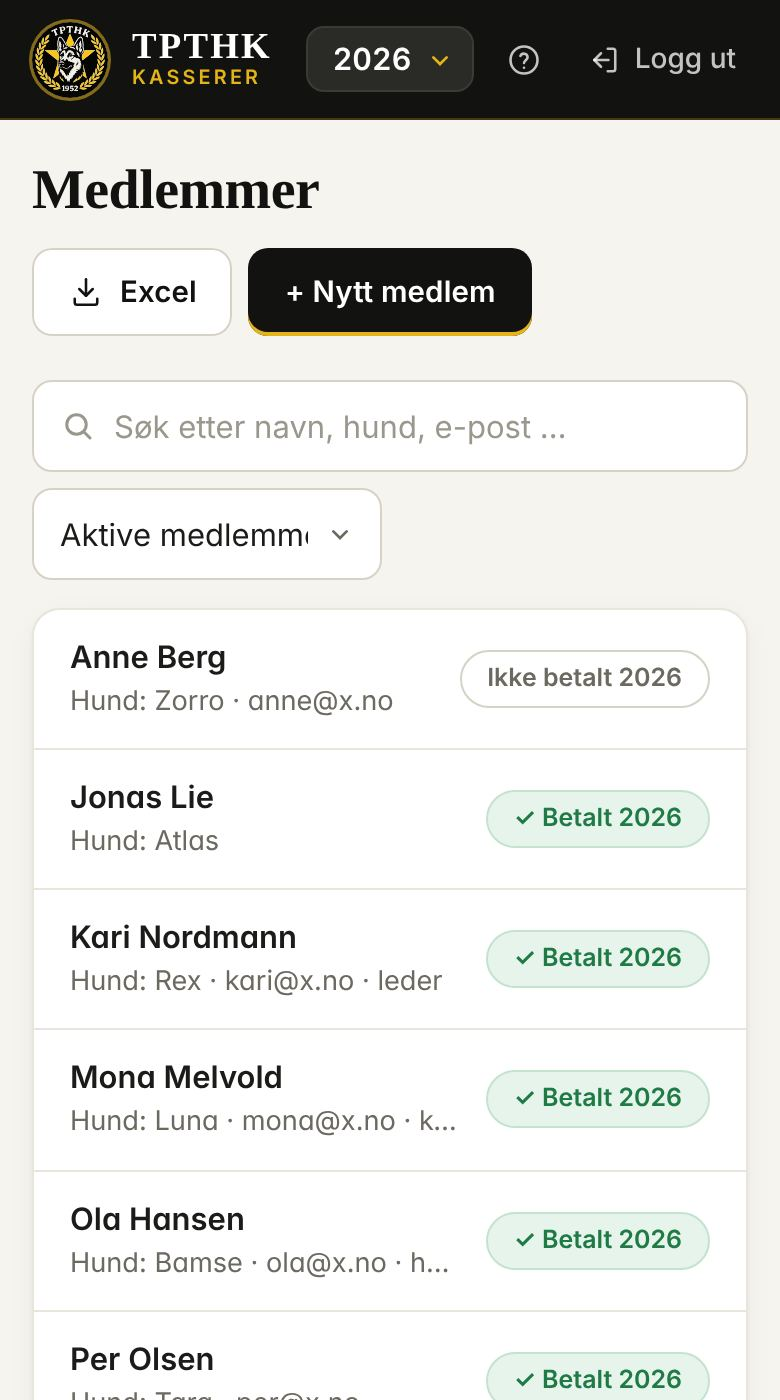
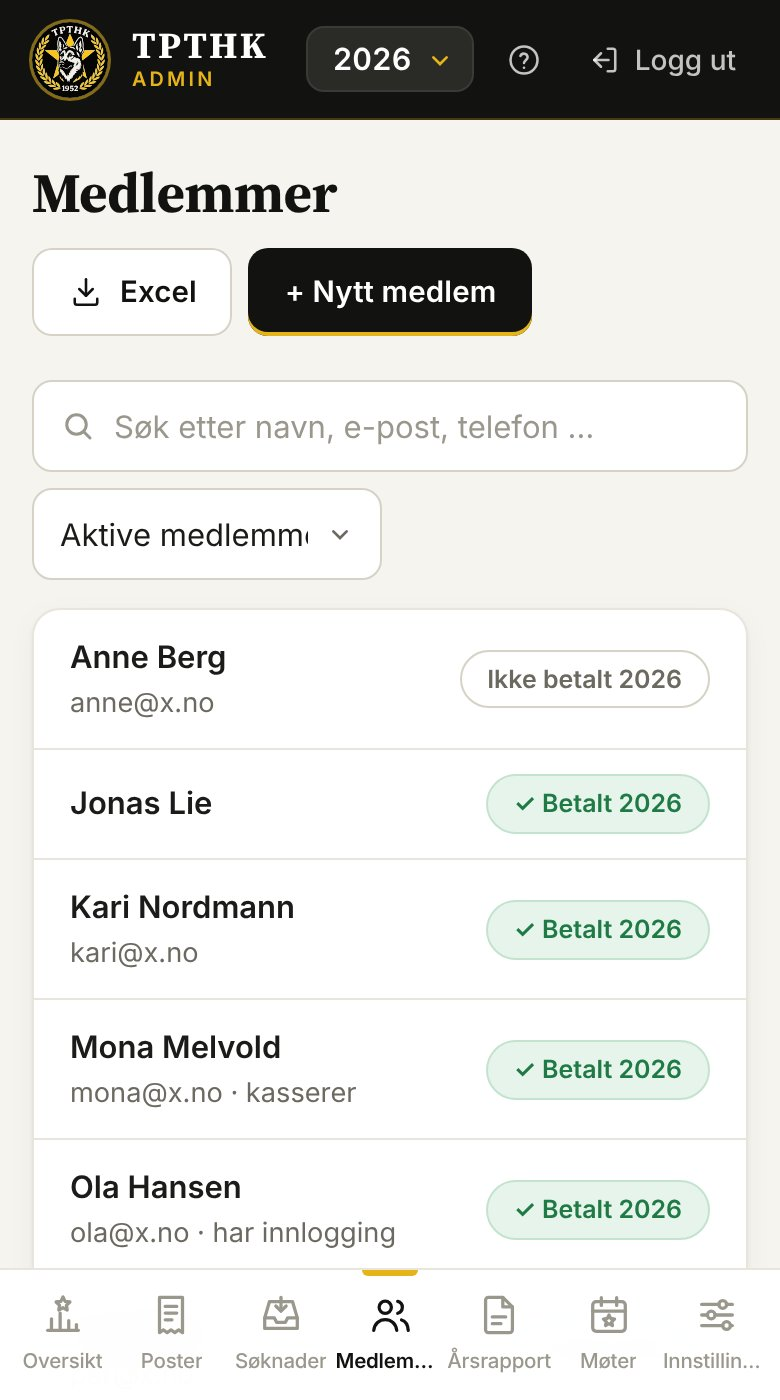
Fjern hund fra medlemmene
Feltet var ikke relevant for klubben. Det er tatt bort fra skjemaet,
listen, søket, Excel-eksporten og hjelpesiden.

Claude-Session: https://claude.ai/code/session_01UShCtGLeeAvhamCDJU8Wet

diff --git a/public/js/views/medlemmer.js b/public/js/views/medlemmer.js
@@ -21,7 +21,7 @@ export function liste(main, S) {
   const synlige = sortert.filter((m) =>
     (filter.vis === "alle" || (filter.vis === "aktive" && m.aktiv !== false)
       || (filter.vis === "ubetalt" && m.aktiv !== false && !m.kontingent?.[aar]?.betalt))
-    && (!sok || `${m.navn} ${m.epost} ${m.hund} ${m.telefon}`.toLowerCase().includes(sok)));
+    && (!sok || `${m.navn} ${m.epost} ${m.telefon}`.toLowerCase().includes(sok)));
 
   main.innerHTML = html`
     <div class="sidetopp">
@@ -46,7 +46,7 @@ export function liste(main, S) {
       </section>`) : ""}
 
     <div class="filterlinje">
-      <input type="search" id="sok" placeholder="Søk etter navn, hund, e-post …" value="${filter.sok}">
+      <input type="search" id="sok" placeholder="Søk etter navn, e-post, telefon …" value="${filter.sok}">
       <select id="vis">
         <option value="aktive" ${filter.vis === "aktive" ? "selected" : ""}>Aktive medlemmer</option>
         <option value="ubetalt" ${filter.vis === "ubetalt" ? "selected" : ""}>Ikke betalt ${aar}</option>
@@ -61,7 +61,7 @@ export function liste(main, S) {
         <li class="${m.aktiv === false ? "utmeldt" : ""}">
           <a href="#/medlem/${m.id}" class="medlem-info">
             <strong>${m.navn}</strong>
-            <span class="hint">${[m.hund && `Hund: ${m.hund}`, m.epost].filter(Boolean).join(" · ")}${t ? ` · ${[t.admin ? "administrator" : t.rolle === "kasserer" ? "kasserer" : "", ...vervFor(S, t.id).map((v) => v.toLowerCase())].filter(Boolean).join(", ") || "har innlogging"}` : ""}${m.aktiv === false ? " · utmeldt" : ""}</span>
+            <span class="hint">${[m.epost, t && ([t.admin ? "administrator" : t.rolle === "kasserer" ? "kasserer" : "", ...vervFor(S, t.id).map((v) => v.toLowerCase())].filter(Boolean).join(", ") || "har innlogging"), m.aktiv === false && "utmeldt"].filter(Boolean).join(" · ")}</span>
           </a>
           <button class="kontingent ${betalt ? "betalt" : ""}" data-kontingent="${m.id}" title="Kontingent ${aar}">
             ${betalt ? `✓ Betalt ${aar}` : `Ikke betalt ${aar}`}
@@ -150,10 +150,10 @@ async function angre(m, aar) {
 
 function eksporter(S, medlemmer) {
   const aar = S.aar;
-  const rader = [["Navn", "E-post", "Telefon", "Hund", "Aktiv", `Kontingent ${aar}`, "Betalt dato", "Beløp", "Merknad"]];
+  const rader = [["Navn", "E-post", "Telefon", "Aktiv", `Kontingent ${aar}`, "Betalt dato", "Beløp", "Merknad"]];
   for (const m of medlemmer) {
     const k = m.kontingent?.[aar];
-    rader.push([m.navn, m.epost, m.telefon, m.hund, m.aktiv === false ? "Nei" : "Ja",
+    rader.push([m.navn, m.epost, m.telefon, m.aktiv === false ? "Nei" : "Ja",
       k?.betalt ? "Betalt" : "Ikke betalt", k ? datoTekst(k.dato) : "", k ? (k.belop / 100).toFixed(2).replace(".", ",") : "", m.merknad]);
   }
   lastNedCsv(`${S.innst.kortnavn || "TPTHK"}-medlemmer-${aar}.csv`, rader);
@@ -179,7 +179,6 @@ export function skjema(main, S, id) {
         <label>E-post<input name="epost" type="email" value="${m.epost || ""}" autocomplete="off"></label>
         <label>Telefon<input name="telefon" type="tel" value="${m.telefon || ""}" autocomplete="off"></label>
       </div>
-      <label>Hund(er)<input name="hund" value="${m.hund || ""}" placeholder="F.eks. Quatro (malinois)"></label>
       <label>Merknad<textarea name="merknad" rows="2">${m.merknad || ""}</textarea></label>
       <label class="avkryss"><input type="checkbox" name="aktiv" ${m.aktiv !== false ? "checked" : ""}> Aktivt medlem</label>
       <label class="avkryss"><input type="checkbox" name="tilgang" ${tilgang ? "checked" : ""} ${erMeg ? "disabled" : ""}>
@@ -210,7 +209,7 @@ export function skjema(main, S, id) {
     }
     await medKnapp(e.submitter, async () => {
       const medlemId = await lagreMedlem(ny ? null : m.id, {
-        navn: v.navn.trim(), epost, telefon: v.telefon.trim(), hund: v.hund.trim(), merknad: v.merknad.trim(), aktiv: Boolean(v.aktiv),
+        navn: v.navn.trim(), epost, telefon: v.telefon.trim(), merknad: v.merknad.trim(), aktiv: Boolean(v.aktiv),
       });
       // Flytt eller fjern tilgang når e-posten endres eller haken fjernes.
       if (tilgang && tilgang.rolle !== "kasserer" && (gammelEpost !== epost || !vilHaTilgang)) await slettBruker(gammelEpost);

diff --git a/public/js/views/hjelp.js b/public/js/views/hjelp.js
@@ -96,7 +96,7 @@ const DELER = [
           <li>Når du har overført pengene i nettbanken, fyll inn dato, beløp og kategori under «Betalt ut? Før det i regnskapet» og trykk «Marker som utbetalt».
             Da blir det en utgift i regnskapet med kvitteringene vedlagt.</li>
         </ol>`, ["behandle-soknad"]],
-      ["Medlemmer og kontingent", `<p>Under <a href="#/medlemmer">Medlemmer</a> legger du inn medlemmene med navn, e-post og hund.
+      ["Medlemmer og kontingent", `<p>Under <a href="#/medlemmer">Medlemmer</a> legger du inn medlemmene med navn, e-post og telefon.
         Trykk på et medlem for å registrere betalt kontingent. Da føres den også i regnskapet. Har dere fått ett samlet beløp (f.eks. fra Vipps),
         kan du fjerne haken og føre totalen som én post selv. «Excel» laster ned medlemslisten.</p>`, ["medlemmer"]],
       ["Gi nye brukere tilgang", `<p>Når noen ber om tilgang, vises de øverst under Medlemmer. Trykk «Gi tilgang» eller «Avvis».

diff --git a/public/js/firebase.js b/public/js/firebase.js
@@ -202,7 +202,7 @@ export async function godkjennForesporsel(f, eksisterendeMedlemId) {
   if (!medlemId) {
     const ref = doc(collection(db, "medlemmer"));
     medlemId = ref.id;
-    batch.set(ref, { navn: f.navn, epost: f.epost, telefon: "", hund: "", merknad: "", aktiv: true, kontingent: {}, opprettet: serverTimestamp() });
+    batch.set(ref, { navn: f.navn, epost: f.epost, telefon: "", merknad: "", aktiv: true, kontingent: {}, opprettet: serverTimestamp() });
   }
   batch.set(doc(db, "brukere", f.epost), { rolle: "medlem", navn: f.navn, medlemId }, { merge: true });
   batch.delete(doc(db, "foresporsler", f.epost));

diff --git a/README.md b/README.md
@@ -39,7 +39,7 @@ Nettside (PWA) for kassereren i Trøndelag Politis Tjenestehundklubb. Kan legges
 | `foresporsler/{epost}` | Nye brukere som ber om tilgang |
 | `poster` | `type` (inntekt/utgift), `dato` (ÅÅÅÅ-MM-DD), `belop` (øre), `kategori`, `beskrivelse`, `bilagsnr`, `kvitteringIds` |
 | `kvitteringer` | Komprimert bilde/PDF som data-URL, `eier` |
-| `medlemmer` | `navn`, `epost`, `telefon`, `hund`, `aktiv`, `kontingent.{år}` |
+| `medlemmer` | `navn`, `epost`, `telefon`, `aktiv`, `kontingent.{år}` |
 | `soknader` | Refusjonssøknader: `epost`, `navn`, `formaal`, `dato`, `belop`, `kontonummer`, `status`, `kvitteringIds` |
 | `innstillinger/klubb` | Klubbinfo, startsaldo, kategorier (bare kasserer) |
 | `innstillinger/medlemsinfo` | Kontingent og betalingsinfo (synlig for medlemmer) |
